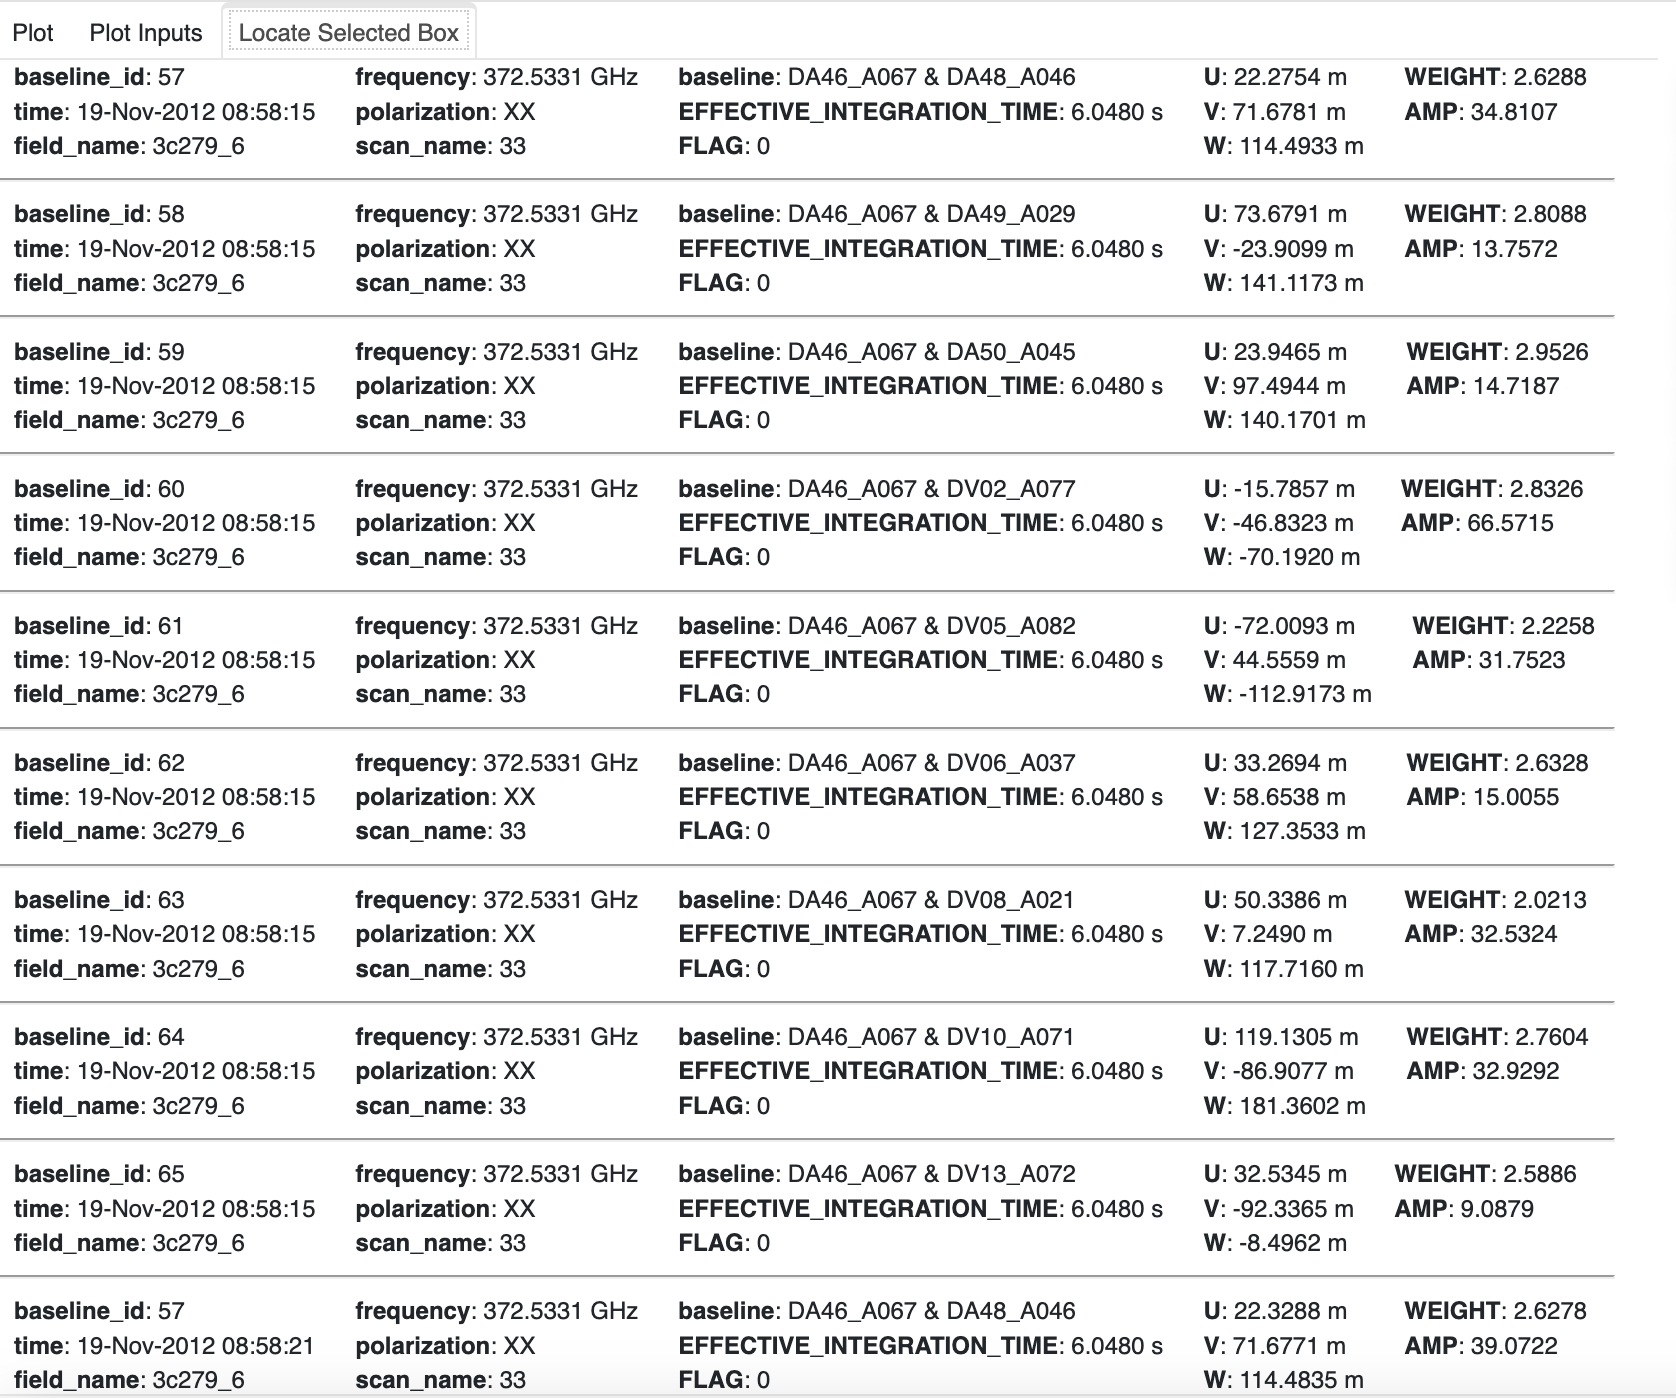
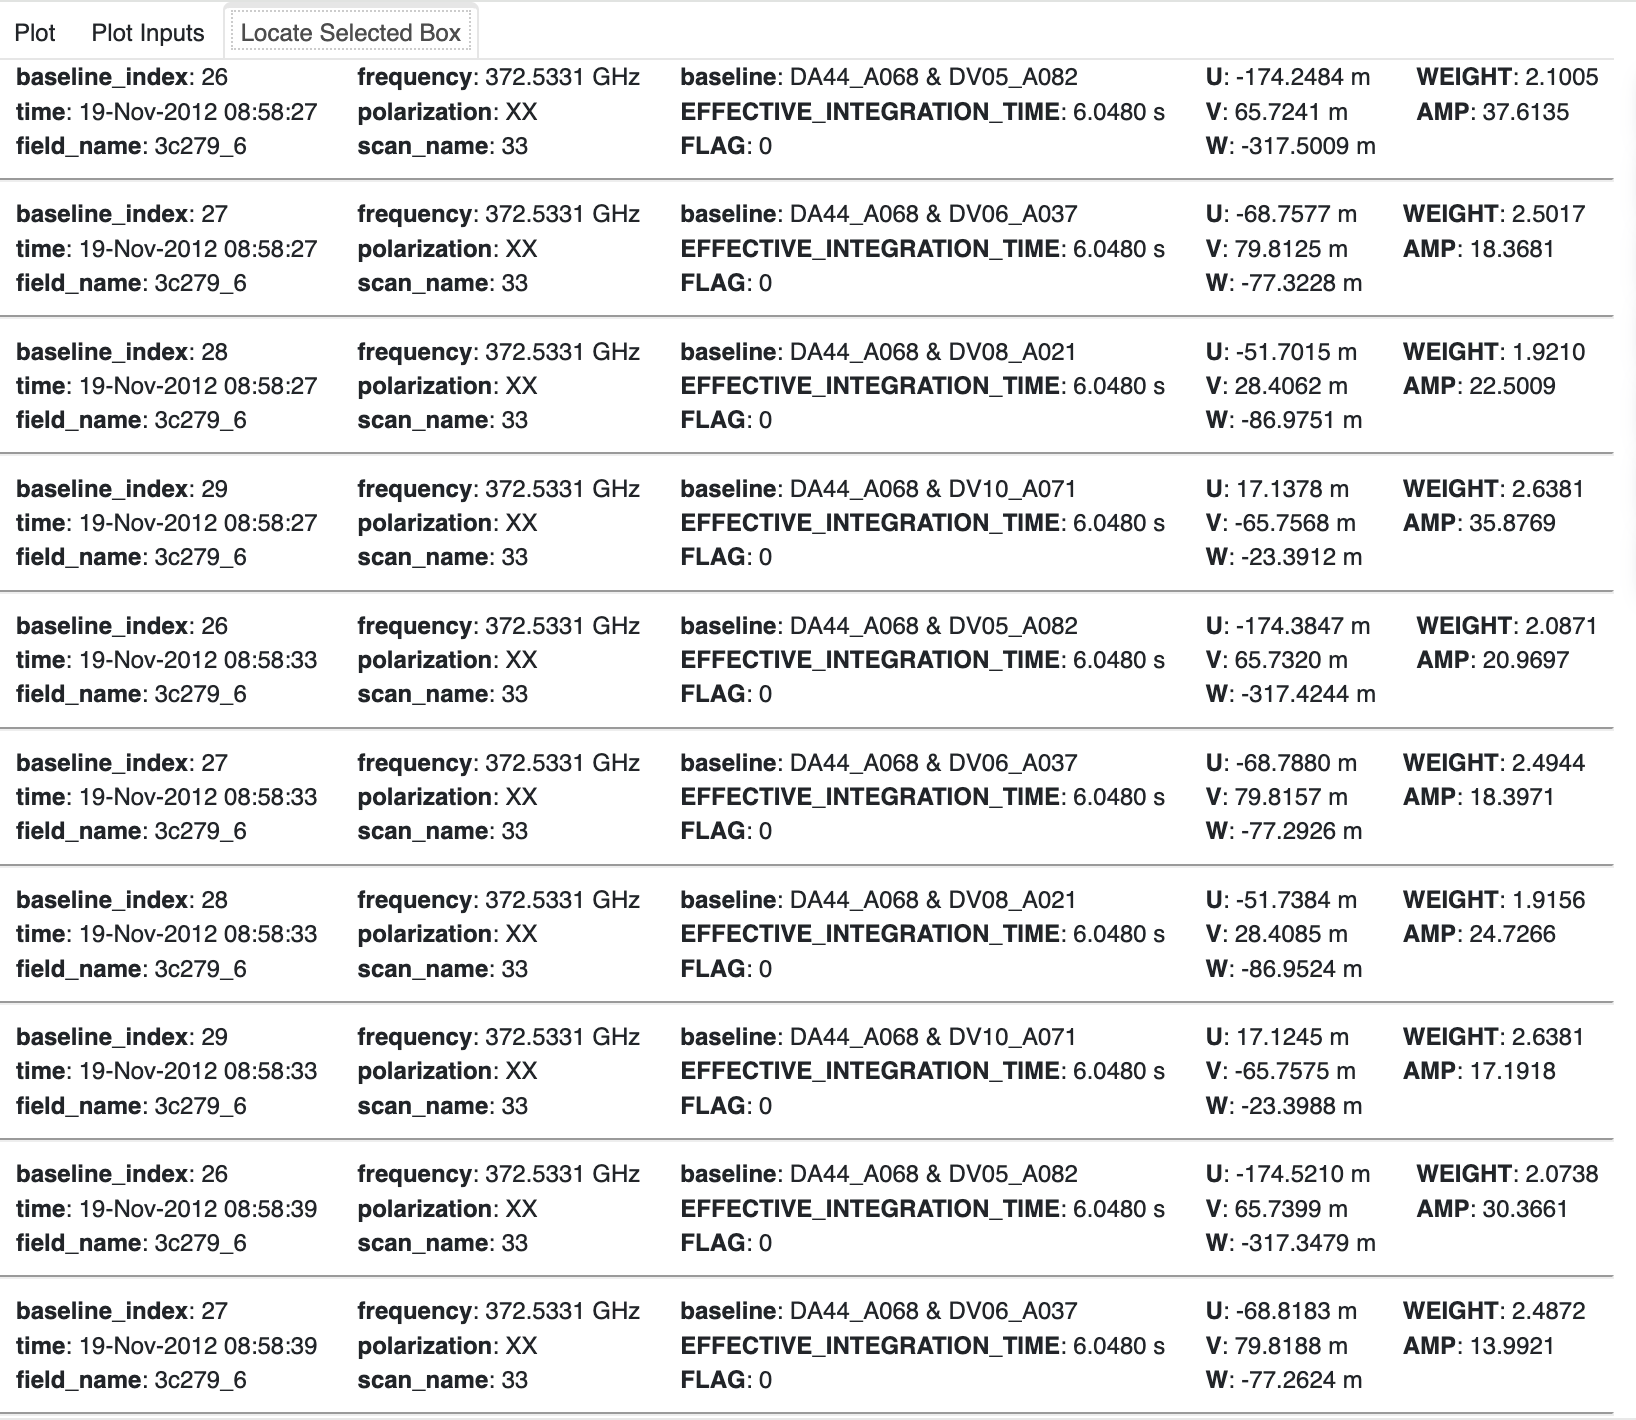
Change Locate names from _id to _index

Changed region(s): [[0.0, 0.0, 0.9976, 1.0]]

diff --git a/src/vidavis/plot/ms_plot/_locate_points.py b/src/vidavis/plot/ms_plot/_locate_points.py
@@ -23,7 +23,7 @@ def locate_point(xds, position, vis_axis):
     values, units = _get_point_location(xds, position, vis_axis)
 
     # Rename baseline coordinate names to not confuse user for selection
-    baseline_names = {'baseline': 'baseline_id', 'baseline_name': 'baseline'}
+    baseline_names = {'baseline': 'baseline_index', 'baseline_name': 'baseline', 'antenna_name': 'antenna_index', 'antenna': 'antenna_name'}
     for name, value in values.items():
         name = baseline_names[name] if name in baseline_names else name
         static_text = _get_location_text(name, value, units)
